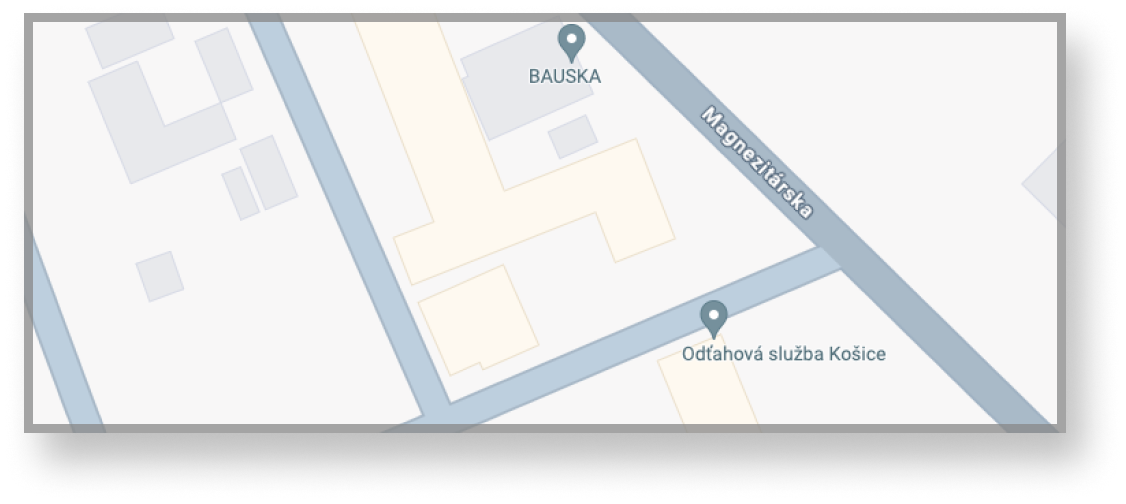
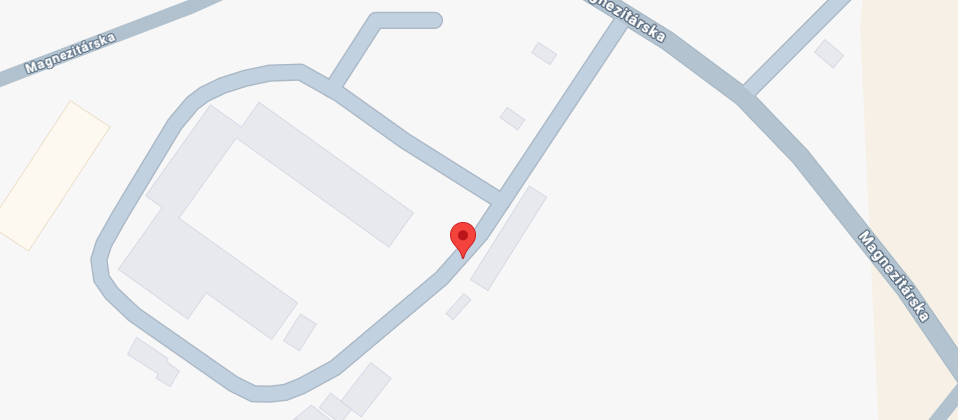
Edit about us

diff --git a/src/components/ContactUsSection.tsx b/src/components/ContactUsSection.tsx
@@ -70,10 +70,10 @@ export const ContactUsSection: FC<Props> = ({ children, ...props }) => (
         </Text>
         <Flex flexDir="column" color="white" gap="3">
           <TimeBox title="Pondelok" time="8:30 - 15:30" />
-          <TimeBox title="Utorok" time="9:00 - 15:30" />
-          <TimeBox title="Streda" time="9:00 - 15:30" />
-          <TimeBox title="Štvrtok" time="9:00 - 15:30" />
-          <TimeBox title="Piatok" time="9:00 - 15:30" />
+          <TimeBox title="Utorok" time="8:30 - 15:30" />
+          <TimeBox title="Streda" time="8:30 - 15:30" />
+          <TimeBox title="Štvrtok" time="8:30 - 15:30" />
+          <TimeBox title="Piatok" time="8:30 - 15:30" />
         </Flex>
       </Flex>
     </Layout>

diff --git a/src/constants/common.ts b/src/constants/common.ts
@@ -4,7 +4,7 @@ export const PROJECT_NAME = "aokno";
 export const PROJECT_URL = "www.aokno.sk";
 export const COMPANY_ADDRESS = "Magnezitárska 7, Košice";
 export const COMPANY_GOOGLE_MAPS_SHARE_LINK =
-  "https://maps.app.goo.gl/B7LcndavaqzHTxzn9";
+  "https://maps.app.goo.gl/FqoAu71HmWQaUFzM7";
 export const COMPANY_PHONE_NUMBER_PRIMARY = "0918 589 991";
 export const COMPANY_PHONE_NUMBER_SECONDARY = "0917 272 535";
 export const COMPANY_EMAIL = "aokno@aokno.sk";
